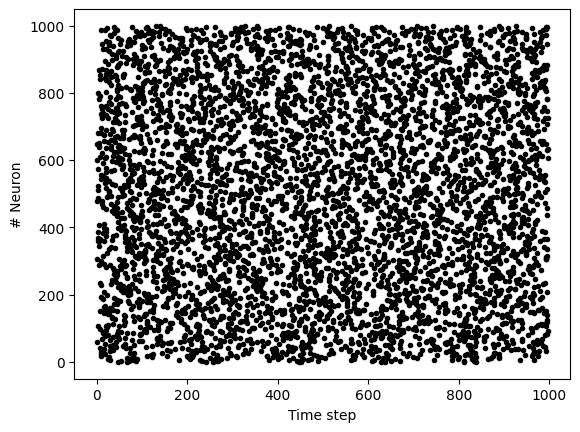
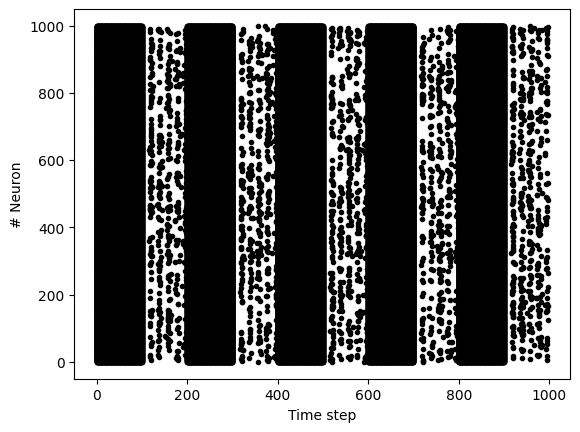
params

diff --git a/standalone_script.py b/standalone_script.py
@@ -120,7 +120,7 @@ if __name__ == '__main__':
         logging.info(f"{p}: {params[p]}")
 
     # how many processes to divide into
-    N_PROCESSES = 4
+    N_PROCESSES = 10
     params["n_neurons"] = params["n_neurons"] // N_PROCESSES
     n_neurons = params["n_neurons"]
 
@@ -133,14 +133,16 @@ if __name__ == '__main__':
 
     voltages_arr, spikes_arr = simulate_parallel_networks(pop_list, params, N_PROCESSES)
 
-    logging.info(f"Finished simulation")
 
-    # show only last 1000 steps
+    logging.info(f"Finished simulation in {time.time() - t0} seconds.")
+
+    # show only first 1000 nerons and last 1000 steps
     x_range = (-1000,-1)
-    spikes_arr = spikes_arr[x_range[0]:x_range[1]]
+    y_range = (0,1000)
+    spikes_arr = spikes_arr[x_range[0]:x_range[1], y_range[0]:y_range[1]]
 
     fig = plt.figure()
-    for i in range(n_neurons):
+    for i in range(y_range[1]-y_range[0]):
         spike_times = spikes_arr[x_range[0]:x_range[1],i].nonzero()[0]
         plt.scatter(spike_times, i*np.ones_like(spike_times), marker='.', c='black')
     plt.xlabel('Time step')
